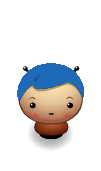
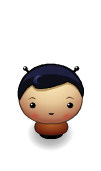
Theme UI
add new theme;
add UI theme selector;

Changed region(s): [[0.1485, 0.3509, 0.8317, 0.5848]]

diff --git a/js/app.js b/js/app.js
@@ -2,7 +2,11 @@ var enableCollision = true;
 var initialScore = 0;
 var initialLifes = 3;
 var theme = 'default';
-
+var themes = [
+    {id: 'default', name: 'Default' },
+    {id: 'sepia', name: 'Sepia' },
+    // {id: 'theme-1', name: 'Theme 1' },
+];
 /**
  *Persona
  */
@@ -14,7 +18,7 @@ var Persona = function (sprite, x, lane) {
     this.flop = false;
 };
 Persona.prototype.render = function () {
-    drawImage(Resources.get(this.sprite), this.x * 101, (this.lane * 83) - 39, this.flip, this.flop);
+    drawImage(Resources.get(this.sprite.replace('@theme', theme)), this.x * 101, (this.lane * 83) - 39, this.flip, this.flop);
 
     if (this.showCollisionBox) {
     ctx.beginPath();
@@ -28,8 +32,8 @@ Persona.prototype.render = function () {
  *Enemies
  */
 var Enemy = function (lane, sprite) {
-    Persona.call(this, sprite || 'images/' + theme + '/enemy-bug.png', 2, lane);
-    this.speed = getRandomArbitrary(1, 5);
+    Persona.call(this, sprite || 'images/@theme/enemy-bug.png', 2, lane);
+    this.speed = getRandomArbitrary(1, 4);
     this.flip = Math.random() >= 0.5;
     this.x = this.flip ? 6 : -1;
     this.width = 98;
@@ -82,6 +86,7 @@ var Player = function (sprite, x) {
     var initialX = isNaN(x) ? 2 : x;
     
     Persona.call(this, sprite, initialX, 5);
+    this.lifeSprite = 'images/@theme/heart.png';
     this.lifes = initialLifes;
     this.initialX = initialX;
     this.finalX = this.x;
@@ -102,8 +107,8 @@ Player.prototype.toInitialPosition = function () {
 }
 Player.prototype.render = function () {
     Persona.prototype.render.call(this);
-    var sprite = Resources.get('images/' + theme + '/heart.png');
 
+    var sprite = Resources.get(this.lifeSprite.replace('@theme', theme));  
     for (var i = 0; i < this.lifes; i++) {
         drawImage(sprite, i * sprite.width, 0);
     }
@@ -183,7 +188,7 @@ Score.prototype.update = function () {
     var chars = s.score.toString().split('');
 
     chars.forEach(function (c) {
-        s.charsToPrint.unshift('images/' + theme + '/number' + c + '.png');
+        s.charsToPrint.unshift(('images/@theme/number' + c + '.png').replace('@theme', theme));
     });
 };
 Score.prototype.clear = function () {
@@ -206,7 +211,7 @@ var Selector = function () {
     this.speed = 4;
 }
 Selector.prototype.render = function () {
-    ctx.drawImage(Resources.get('images/' + theme + '/selector.png') , this.x * 101, (this.y * 83) - 39);
+    ctx.drawImage(Resources.get('images/@theme/selector.png'.replace('@theme', theme)) , this.x * 101, (this.y * 83) - 39);
 };
 Selector.prototype.update = function (dt) {
             if (this.x < this.finalX)
@@ -243,12 +248,51 @@ var score;
 var selector = new Selector();
 var scene = 'playerSelection';
 var allPlayers = [
-        new Player('images/' + theme + '/char-boy.png', 0),
-        new Player('images/' + theme + '/char-cat-girl.png', 1),
-        new Player('images/' + theme + '/char-horn-girl.png', 2),
-        new Player('images/' + theme + '/char-pink-girl.png', 3),
-        new Player('images/' + theme + '/char-princess-girl.png', 4)
+        new Player('images/@theme/char-boy.png', 0),
+        new Player('images/@theme/char-cat-girl.png', 1),
+        new Player('images/@theme/char-horn-girl.png', 2),
+        new Player('images/@theme/char-pink-girl.png', 3),
+        new Player('images/@theme/char-princess-girl.png', 4)
     ];
+var assetsList = [];
+var assetsListThemeless = [
+    'images/@theme/stone-block.png',
+    'images/@theme/water-block.png',
+    'images/@theme/grass-block.png',
+    'images/@theme/enemy-bug.png',
+    'images/@theme/char-boy.png',
+    'images/@theme/char-cat-girl.png',
+    'images/@theme/char-horn-girl.png',
+    'images/@theme/char-pink-girl.png',
+    'images/@theme/char-princess-girl.png',
+    'images/@theme/selector.png',
+    'images/@theme/number0.png',
+    'images/@theme/number1.png',
+    'images/@theme/number2.png',
+    'images/@theme/number3.png',
+    'images/@theme/number4.png',
+    'images/@theme/number5.png',
+    'images/@theme/number6.png',
+    'images/@theme/number7.png',
+    'images/@theme/number8.png',
+    'images/@theme/number9.png',
+    'images/@theme/heart.png',
+];
+
+function setTheme(t) {
+    assetsList = [];
+    Resources.onReady(function () {
+        theme = t;
+    });
+
+    assetsListThemeless.forEach(function (r) {
+        assetsList.push(r.replace('@theme', t));
+    });
+    
+    Resources.load(assetsList);
+};
+
+setTheme(theme);
 
 function startScene(sc, x) {
     allEnemies = [

diff --git a/js/engine.js b/js/engine.js
@@ -83,7 +83,21 @@ ctx.strokeStyle='red';
     keypad.appendChild(keypadLeft);
     keypad.appendChild(keypadA);
     }        
+    var themesList = doc.createElement('ul');
+    themesList.classList.add('theme-list');
+    
+    themes.forEach(function (t) {
+        var item = doc.createElement('li');
+        item.classList.add('theme-list__item');
+        item.innerHTML = t.name;
+        item.addEventListener('click', function () {
+            setTheme(t.id); 
+        });
 
+        themesList.appendChild(item);
+    });
+
+    doc.body.appendChild(themesList);
 
     /* This function serves as the kickoff point for the game loop itself
      * and handles properly calling the update and render methods.
@@ -244,29 +258,6 @@ ctx.strokeStyle='red';
      * draw our game level. Then set init as the callback method, so that when
      * all of these images are properly loaded our game will start.
      */
-    Resources.load([
-        'images/' + theme + '/stone-block.png',
-        'images/' + theme + '/water-block.png',
-        'images/' + theme + '/grass-block.png',
-        'images/' + theme + '/enemy-bug.png',
-        'images/' + theme + '/char-boy.png',
-        'images/' + theme + '/char-cat-girl.png',
-        'images/' + theme + '/char-horn-girl.png',
-        'images/' + theme + '/char-pink-girl.png',
-        'images/' + theme + '/char-princess-girl.png',
-        'images/' + theme + '/selector.png',
-        'images/' + theme + '/number0.png',
-        'images/' + theme + '/number1.png',
-        'images/' + theme + '/number2.png',
-        'images/' + theme + '/number3.png',
-        'images/' + theme + '/number4.png',
-        'images/' + theme + '/number5.png',
-        'images/' + theme + '/number6.png',
-        'images/' + theme + '/number7.png',
-        'images/' + theme + '/number8.png',
-        'images/' + theme + '/number9.png',
-        'images/' + theme + '/heart.png',
-    ]);
     Resources.onReady(init);
 
     /* Assign the canvas' context object to the global variable (the window

diff --git a/js/resources.js b/js/resources.js
@@ -12,15 +12,26 @@
      * an array of strings pointing to image files or a string for a single
      * image. It will then call our private image loading function accordingly.
      */
+    function execCallbacks() {
+        while (readyCallbacks.length > 0) {
+            var func = readyCallbacks.pop();
+            func();
+        }
+    };
+
     function load(urlOrArr) {
         if(urlOrArr instanceof Array) {
             /* If the developer passed in an array of images
              * loop through each value and call our image
              * loader on that image file
              */
-            urlOrArr.forEach(function(url) {
-                _load(url);
+            var allAlreadyLoaded = true;
+            urlOrArr.forEach(function (url) {
+                var img = _load(url);
+                allAlreadyLoaded = allAlreadyLoaded && typeof _load(url) === 'object';
             });
+            if (allAlreadyLoaded)
+                execCallbacks();
         } else {
             /* The developer did not pass an array to this function,
              * assume the value is a string and call our image loader
@@ -55,9 +66,8 @@
                 /* Once the image is actually loaded and properly cached,
                  * call all of the onReady() callbacks we have defined.
                  */
-                if(isReady()) {
-                    readyCallbacks.forEach(function(func) { func(); });
-                }
+                if(isReady()) 
+                execCallbacks();
             };
 
             /* Set the initial cache value to false, this will change when

diff --git a/css/style.css b/css/style.css
@@ -6,7 +6,7 @@ body {
 em {
     width: 505px;
     display: block;
-    margin:  20px auto;    
+    margin:  0 auto 20px;    
     line-height: 1.5;
     text-align: left;
 }
@@ -70,4 +70,20 @@ em blockquote {
     width: 60px;
     height: 60px;
     background-image: url('../images/keypad-a.png');
+}
+
+.theme-list {
+list-style: none;
+    padding: 10px;
+    margin: 0;
+    position: absolute;
+    top: 50px;
+    left: 50%;
+    text-align: left;
+    transform: translateX(calc(-252.5px - 100%));
+}
+
+.theme-list__item {
+    padding: 5px 10px;
+    cursor: pointer;
 }
